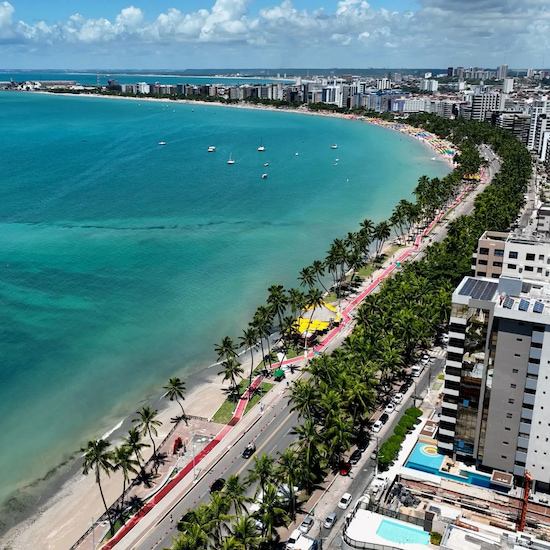
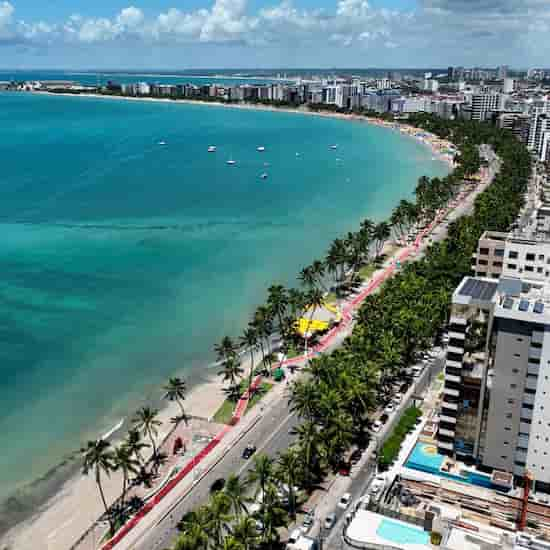
fixed

diff --git a/index.html b/index.html
@@ -5,7 +5,7 @@
     <meta charset="UTF-8">
     <meta name="viewport" content="width=device-width, initial-scale=1.0">
     <title> Pablo Fabricio Silva De Castro | WDD 130 </title>
-    <meta name="Pablo Fabricio Silva de Castro"
+    <meta name="Pablo"
       content="Pablo Castro, Web Fundamentals, showing personal information, including where i am from. There is pictures about my state and a short description.">
     <link rel="stylesheet" href="styles/styles.css">
 </head>

diff --git a/styles/styles.css b/styles/styles.css
@@ -48,9 +48,13 @@ aside img {
 main img {
     width: 150px;
     height: auto;
+    border: 1px solid black;
+    padding: 2px;
+    box-shadow: 0 0 20px gray;
+    border-radius: 10px;
 }
 
-p {
+aside p {
     padding: 0;
 }
 
